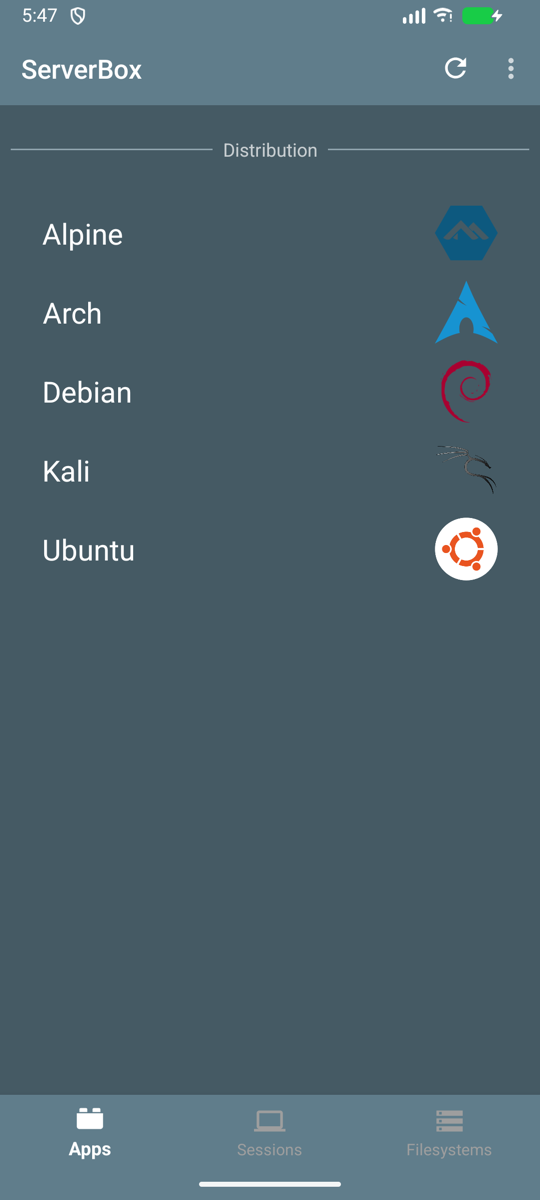
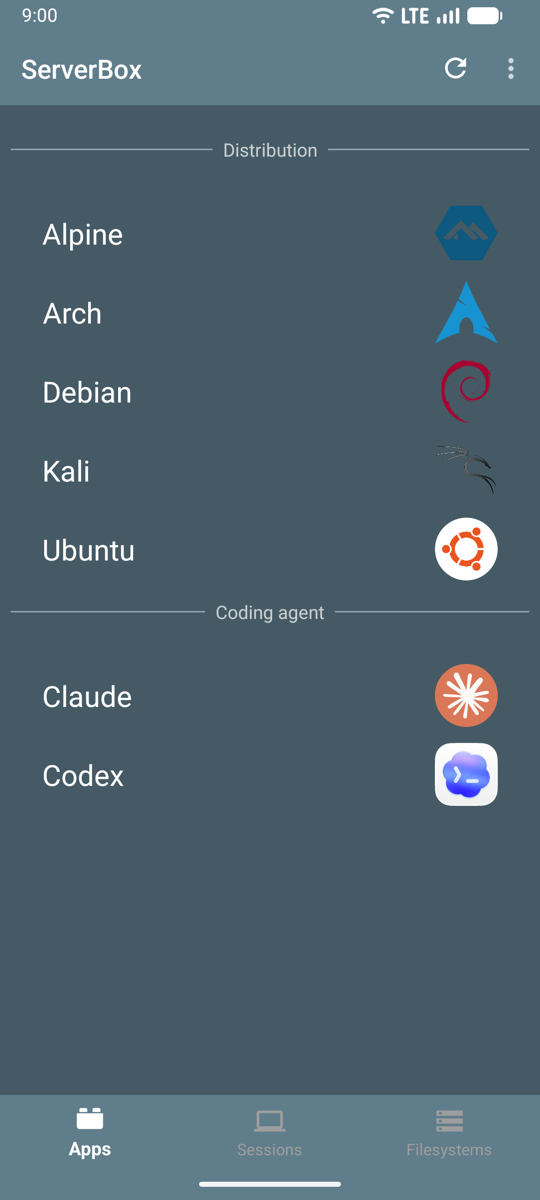
Update the README screenshots for 1.1 (#22)
Retake the three screenshots on the 1.1 build; the Apps tab now shows the
Coding agent section with Claude and Codex.

diff --git a/README.md b/README.md
@@ -37,9 +37,9 @@ CypherpunkArmory (UserLAnd Technologies, LLC) and, like UserLAnd, is licensed un
 
 ## Screenshots
 
-| Distributions | New filesystem | Server settings |
+| Apps | New filesystem | Server settings |
 | :---: | :---: | :---: |
-| <img src="docs/screenshots/apps.png" alt="Apps tab listing the Linux distributions" width="240"> | <img src="docs/screenshots/filesystem-edit.png" alt="Creating a filesystem with a user name and password" width="240"> | <img src="docs/screenshots/settings.png" alt="Server settings: start on boot, SSH from the network, authorized keys" width="240"> |
+| <img src="docs/screenshots/apps.png" alt="Apps tab listing the Linux distributions and the coding agents" width="240"> | <img src="docs/screenshots/filesystem-edit.png" alt="Creating a filesystem with a user name and password" width="240"> | <img src="docs/screenshots/settings.png" alt="Server settings: start on boot, SSH from the network, authorized keys" width="240"> |
 
 ## Download
 
